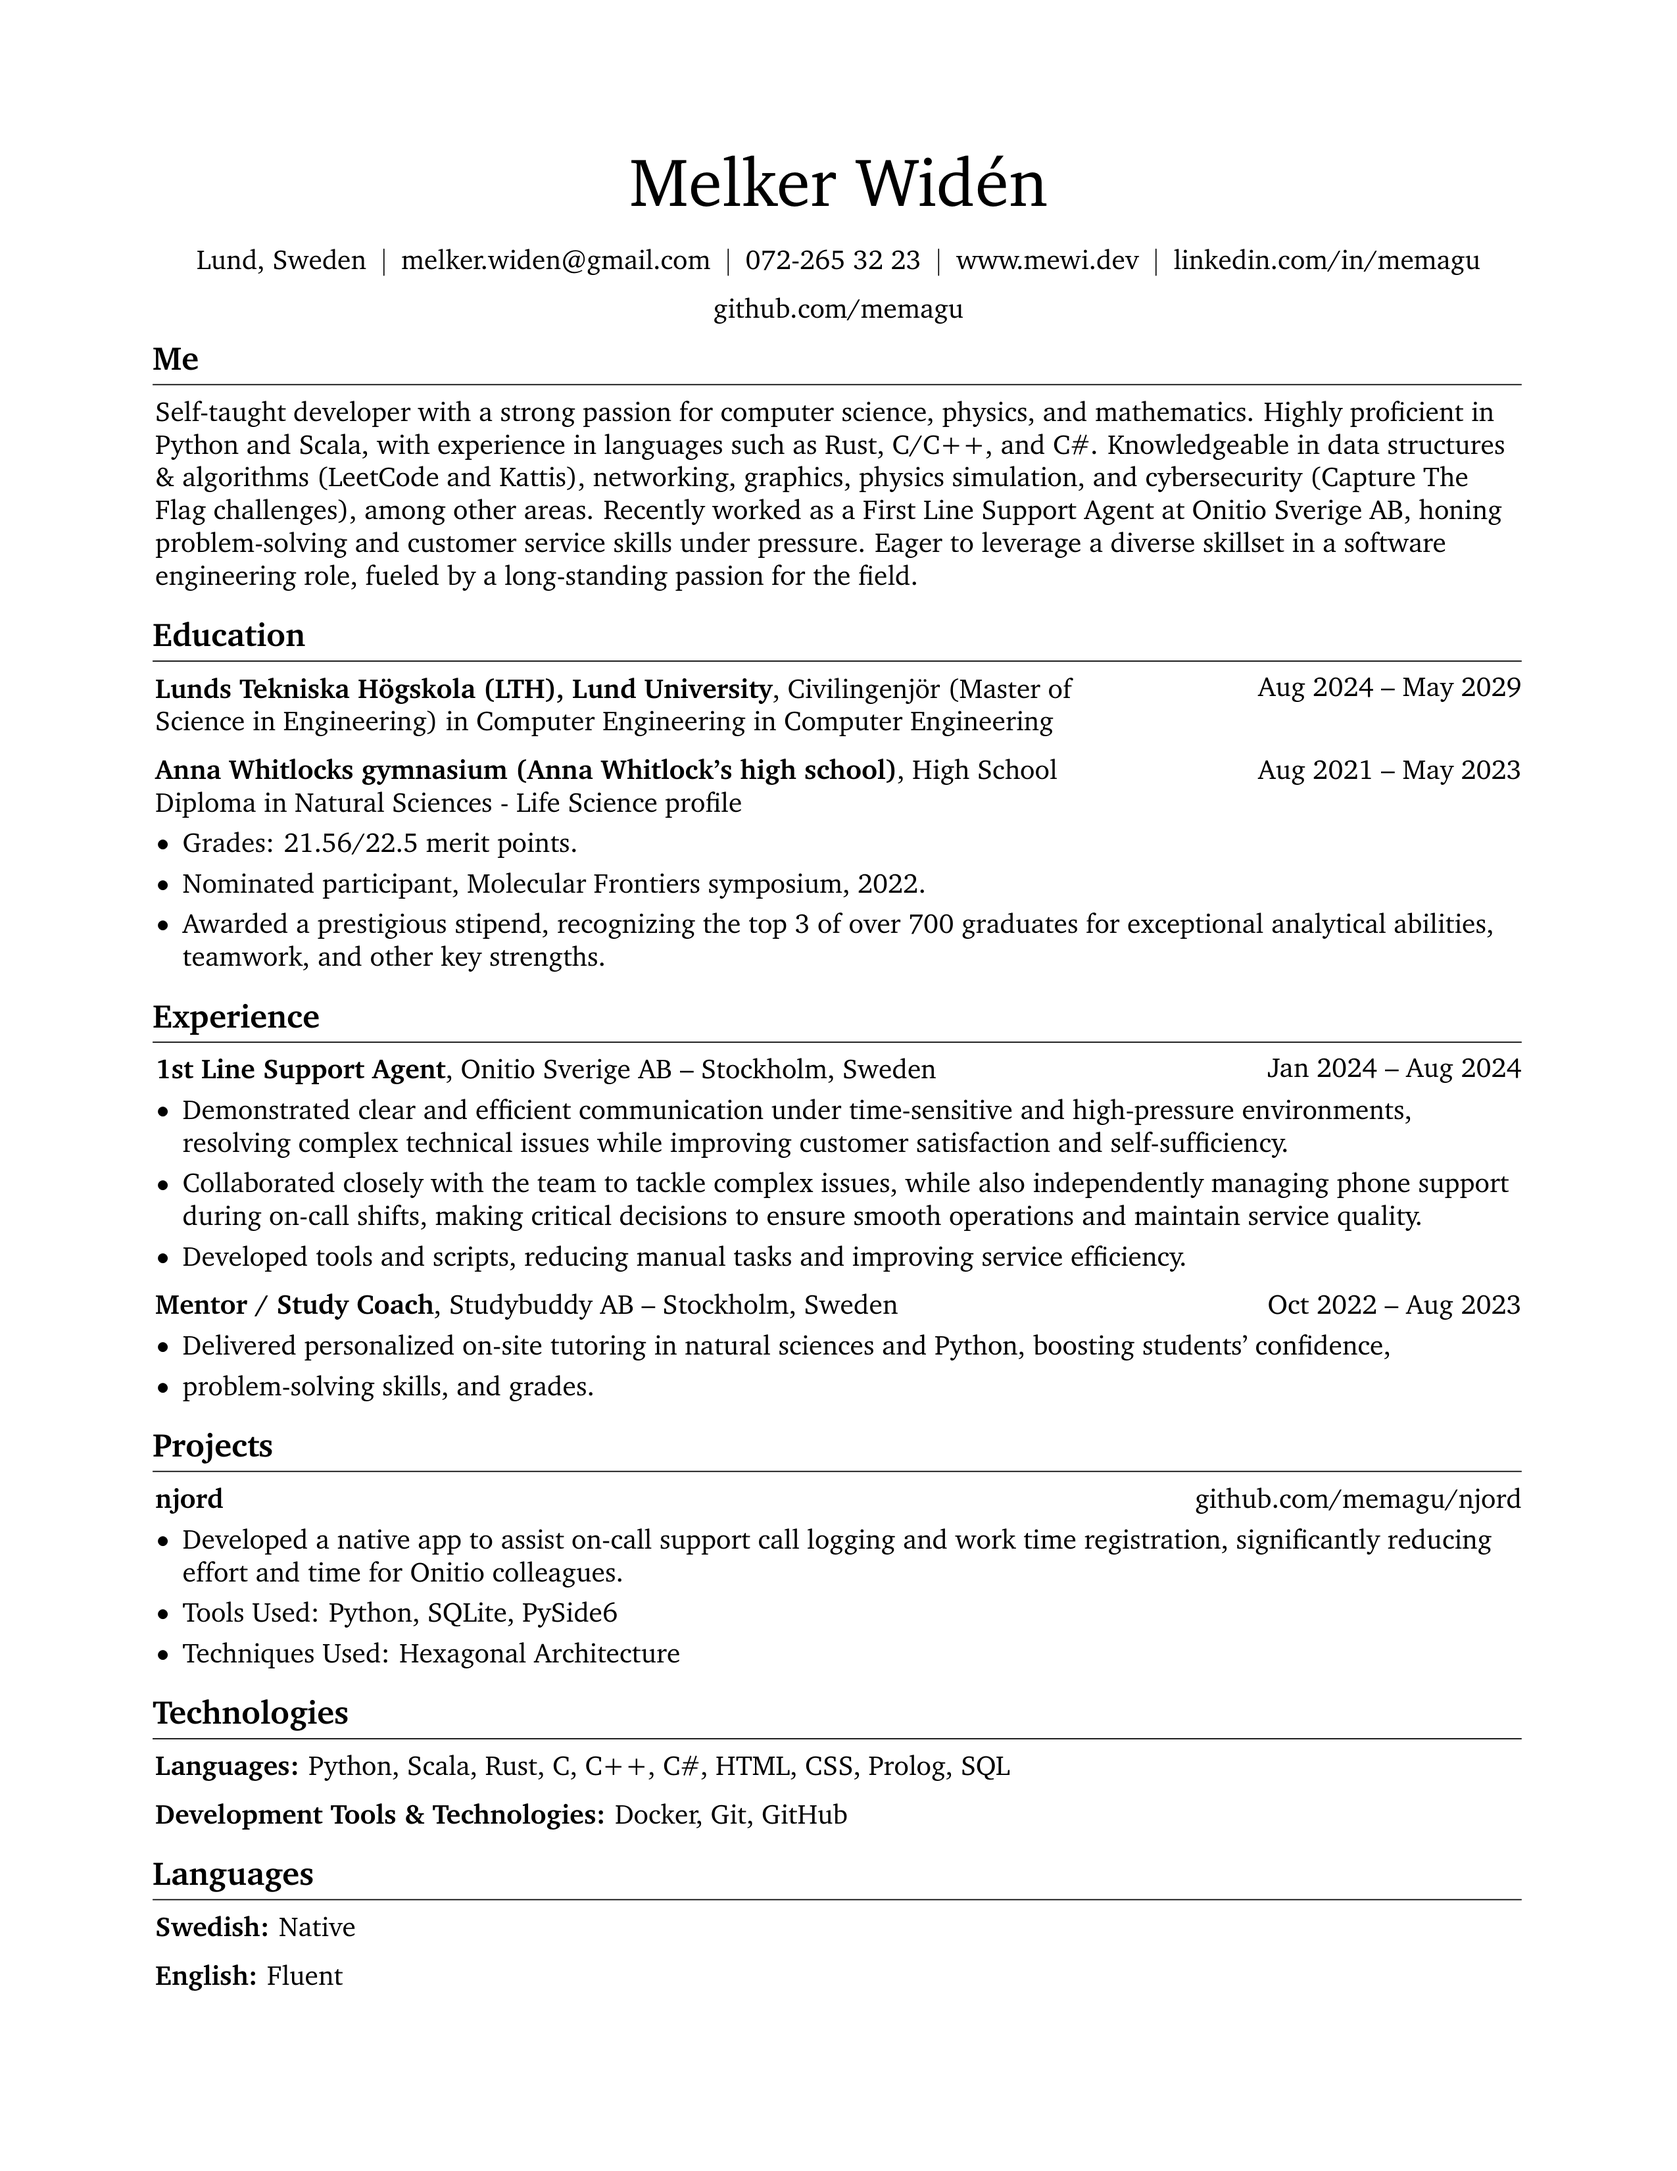
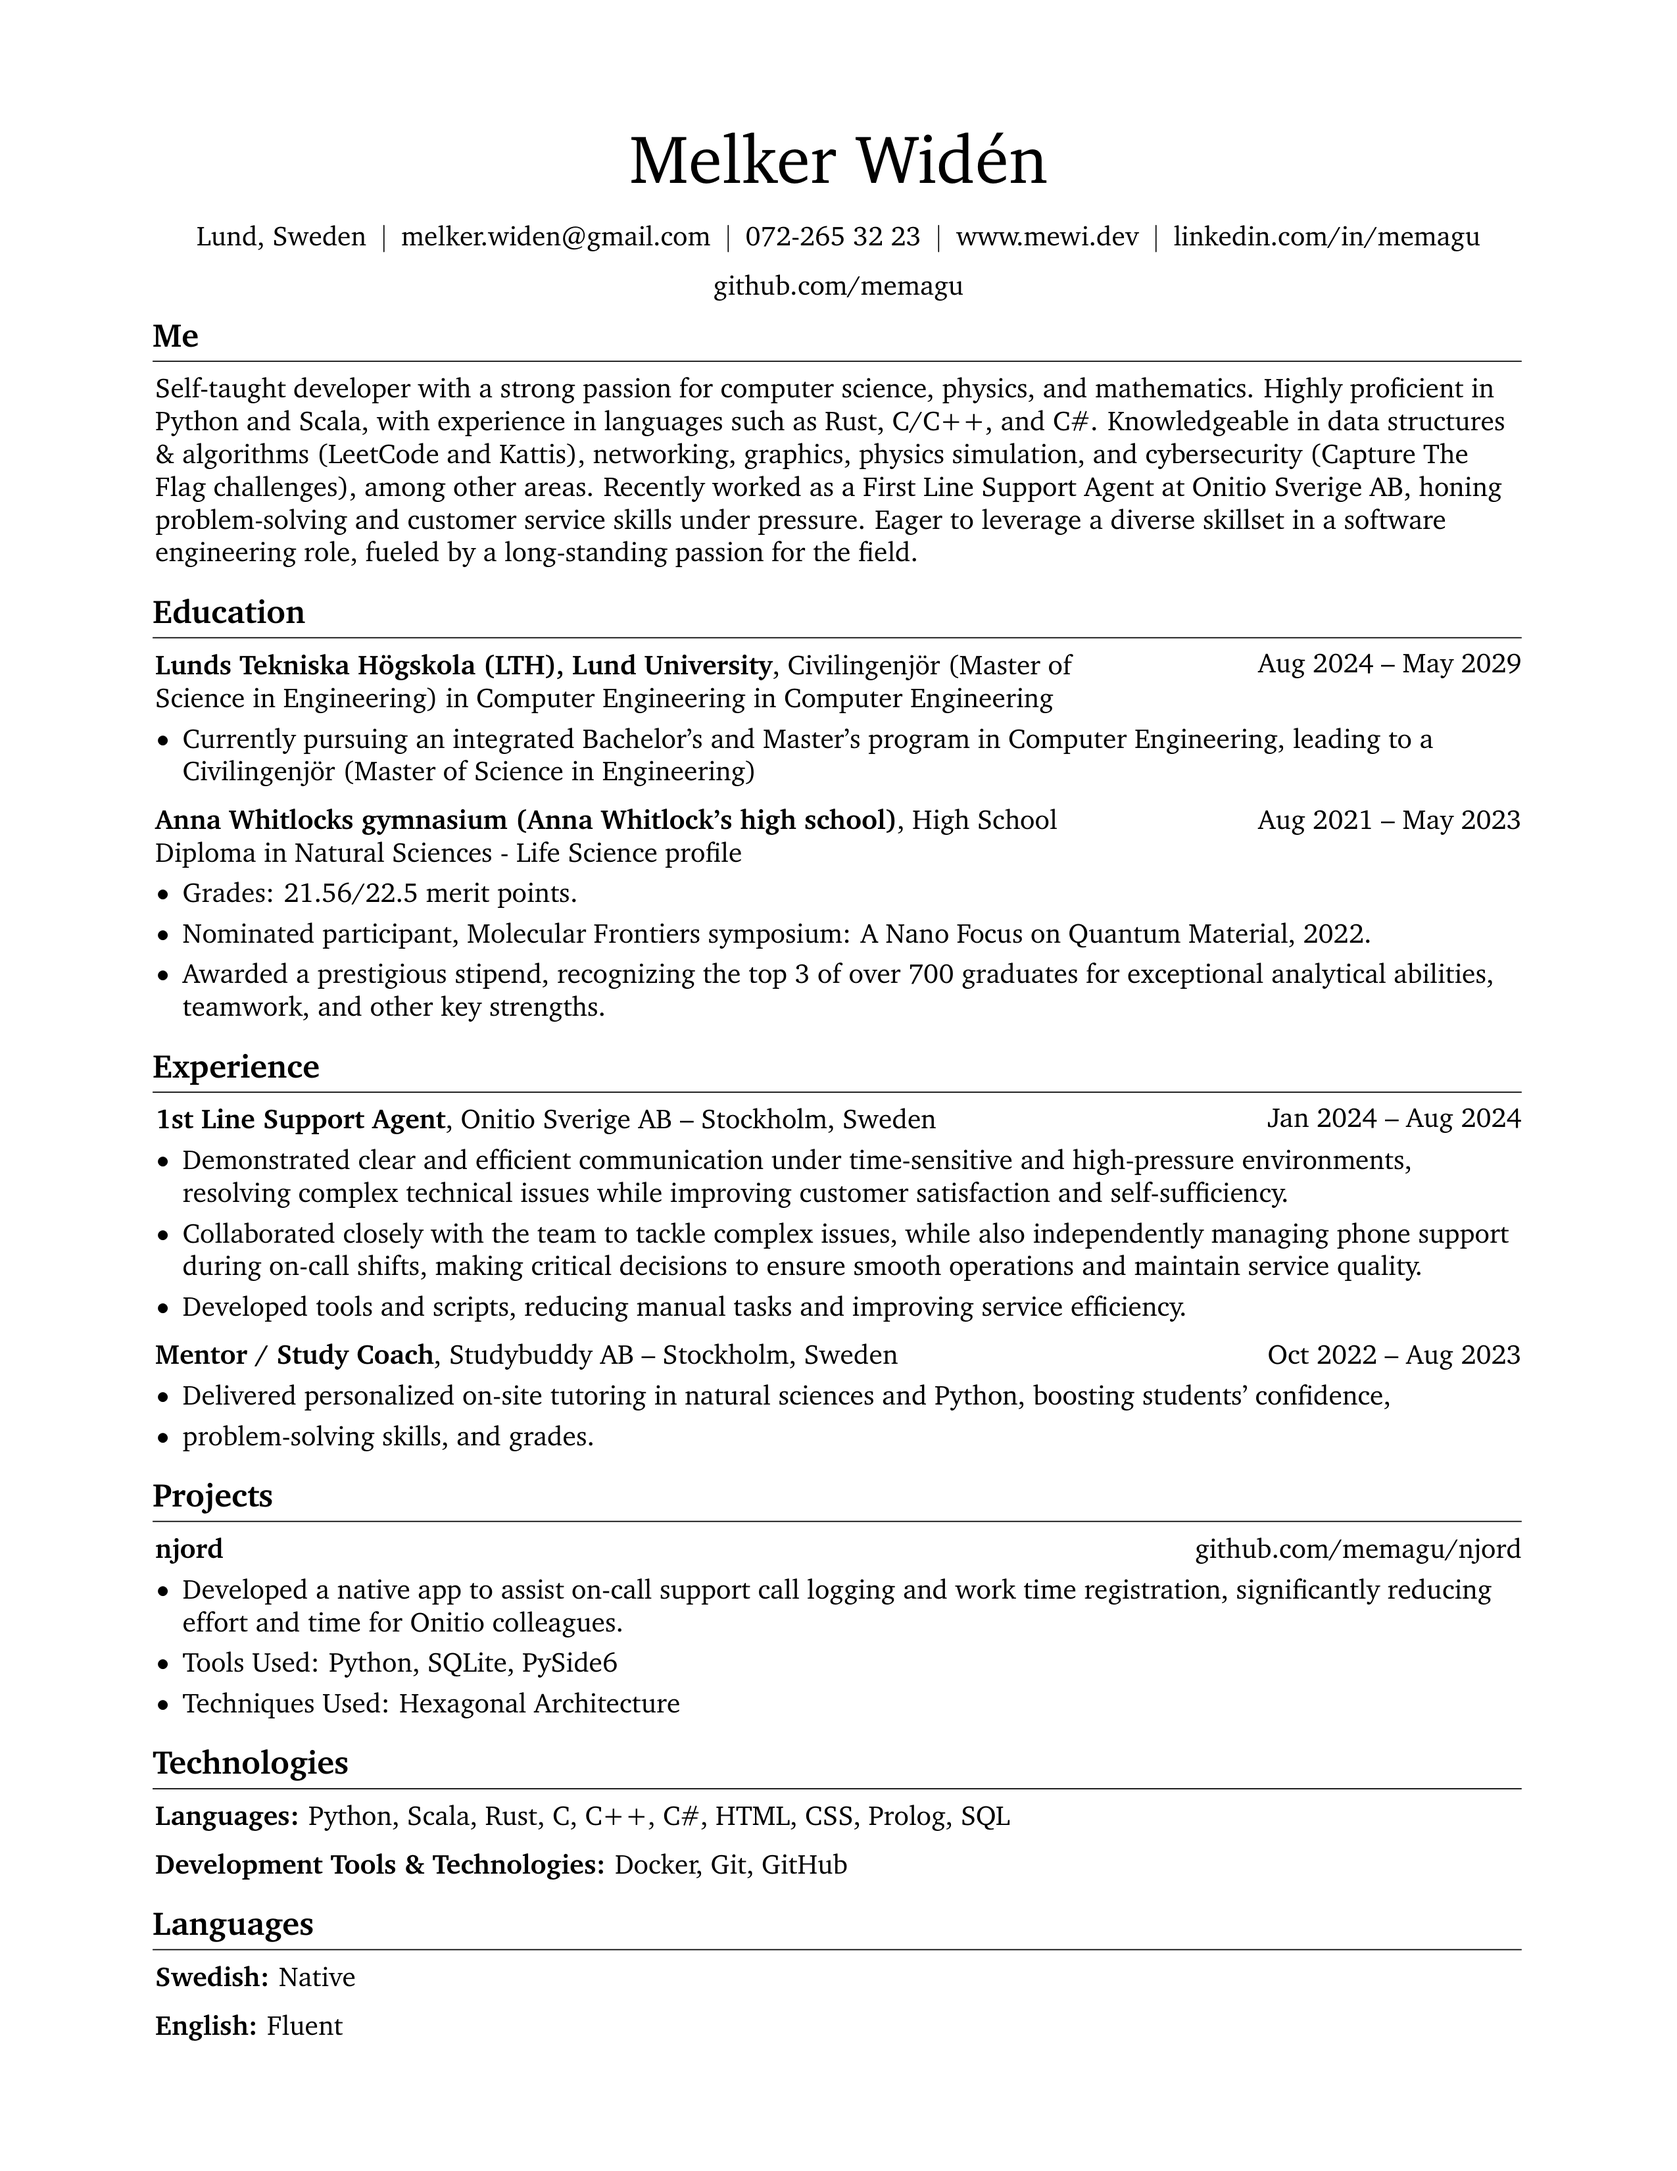
Add university description and expand description of the Molecular Frontiers symposium

Changed region(s): [[0.0929, 0.0624, 0.8984, 0.9364], [0.7435, 0.2809, 0.8984, 0.3745], [0.1239, 0.0936, 0.2169, 0.1248]]

diff --git a/output/software_engineer/Melker_Widén_CV.html b/output/software_engineer/Melker_Widén_CV.html
@@ -54,12 +54,13 @@
         <h2>Lunds Tekniska Högskola (LTH), Lund University, Civilingenjör (Master of Science in Engineering) in Computer Engineering in Computer Engineering</h2>
         <ul>
         <li>Aug 2024 – May 2029</li>
+        <li>Currently pursuing an integrated Bachelor's and Master's program in Computer Engineering, leading to a Civilingenjör (Master of Science in Engineering)</li>
         </ul>
         <h2>Anna Whitlocks gymnasium (Anna Whitlock's high school), High School Diploma in Natural Sciences - Life Science profile</h2>
         <ul>
         <li>Aug 2021 – May 2023</li>
         <li>Grades: 21.56/22.5 merit points.</li>
-        <li>Nominated participant, Molecular Frontiers symposium, 2022.</li>
+        <li>Nominated participant, Molecular Frontiers symposium: A Nano Focus on Quantum Material, 2022.</li>
         <li>Awarded a prestigious stipend, recognizing the top 3 of over 700 graduates for exceptional analytical abilities, teamwork, and other key strengths.</li>
         </ul>
         <h1>Experience</h1>

diff --git a/output/software_engineer/Melker_Widén_CV.tex b/output/software_engineer/Melker_Widén_CV.tex
@@ -3,11 +3,11 @@
 % Packages:
 \usepackage[
     ignoreheadfoot, % set margins without considering header and footer
-    top=2 cm, % seperation between body and page edge from the top
-    bottom=2 cm, % seperation between body and page edge from the bottom
+    top=1.7 cm, % seperation between body and page edge from the top
+    bottom=1.7 cm, % seperation between body and page edge from the bottom
     left=2 cm, % seperation between body and page edge from the left
     right=2 cm, % seperation between body and page edge from the right
-    footskip=1.0 cm, % seperation between body and footer
+    footskip=0.85 cm, % seperation between body and footer
     % showframe % for debugging 
 ]{geometry} % for adjusting page geometry
 \usepackage{titlesec} % for customizing section titles
@@ -137,7 +137,7 @@
   \AddToShipoutPictureFG*{% Add <stuff> to current page foreground
     \put(
         \LenToUnit{\paperwidth-2 cm-0 cm+0.05cm},
-        \LenToUnit{\paperheight-1.0 cm}
+        \LenToUnit{\paperheight-0.85 cm}
     ){\vtop{{\null}\makebox[0pt][c]{
         \small\color{gray}\textit{Last updated in Jan 2025}\hspace{\widthof{Last updated in Jan 2025}}
     }}}%
@@ -223,6 +223,12 @@
         }
             \textbf{Lunds Tekniska Högskola (LTH), Lund University}, Civilingenjör (Master of Science in Engineering) in Computer Engineering in Computer Engineering\end{twocolentry}
 
+        \vspace{0.10 cm}
+        \begin{onecolentry}
+            \begin{highlights}
+                \item Currently pursuing an integrated Bachelor's and Master's program in Computer Engineering, leading to a Civilingenjör (Master of Science in Engineering)
+            \end{highlights}
+        \end{onecolentry}
 
 
         \vspace{0.2 cm}
@@ -236,7 +242,7 @@
         \begin{onecolentry}
             \begin{highlights}
                 \item Grades: 21.56/22.5 merit points.
-                \item Nominated participant, Molecular Frontiers symposium, 2022.
+                \item Nominated participant, Molecular Frontiers symposium: A Nano Focus on Quantum Material, 2022.
                 \item Awarded a prestigious stipend, recognizing the top 3 of over 700 graduates for exceptional analytical abilities, teamwork, and other key strengths.
             \end{highlights}
         \end{onecolentry}

diff --git a/output/software_engineer/Melker_Widén_CV.md b/output/software_engineer/Melker_Widén_CV.md
@@ -17,12 +17,13 @@ Self-taught developer with a strong passion for computer science, physics, and m
 ## Lunds Tekniska Högskola (LTH), Lund University, Civilingenjör (Master of Science in Engineering) in Computer Engineering in Computer Engineering
 
 - Aug 2024 – May 2029
+- Currently pursuing an integrated Bachelor's and Master's program in Computer Engineering, leading to a Civilingenjör (Master of Science in Engineering)
 
 ## Anna Whitlocks gymnasium (Anna Whitlock's high school), High School Diploma in Natural Sciences - Life Science profile
 
 - Aug 2021 – May 2023
 - Grades: 21.56/22.5 merit points.
-- Nominated participant, Molecular Frontiers symposium, 2022.
+- Nominated participant, Molecular Frontiers symposium: A Nano Focus on Quantum Material, 2022.
 - Awarded a prestigious stipend, recognizing the top 3 of over 700 graduates for exceptional analytical abilities, teamwork, and other key strengths.
 
 # Experience
